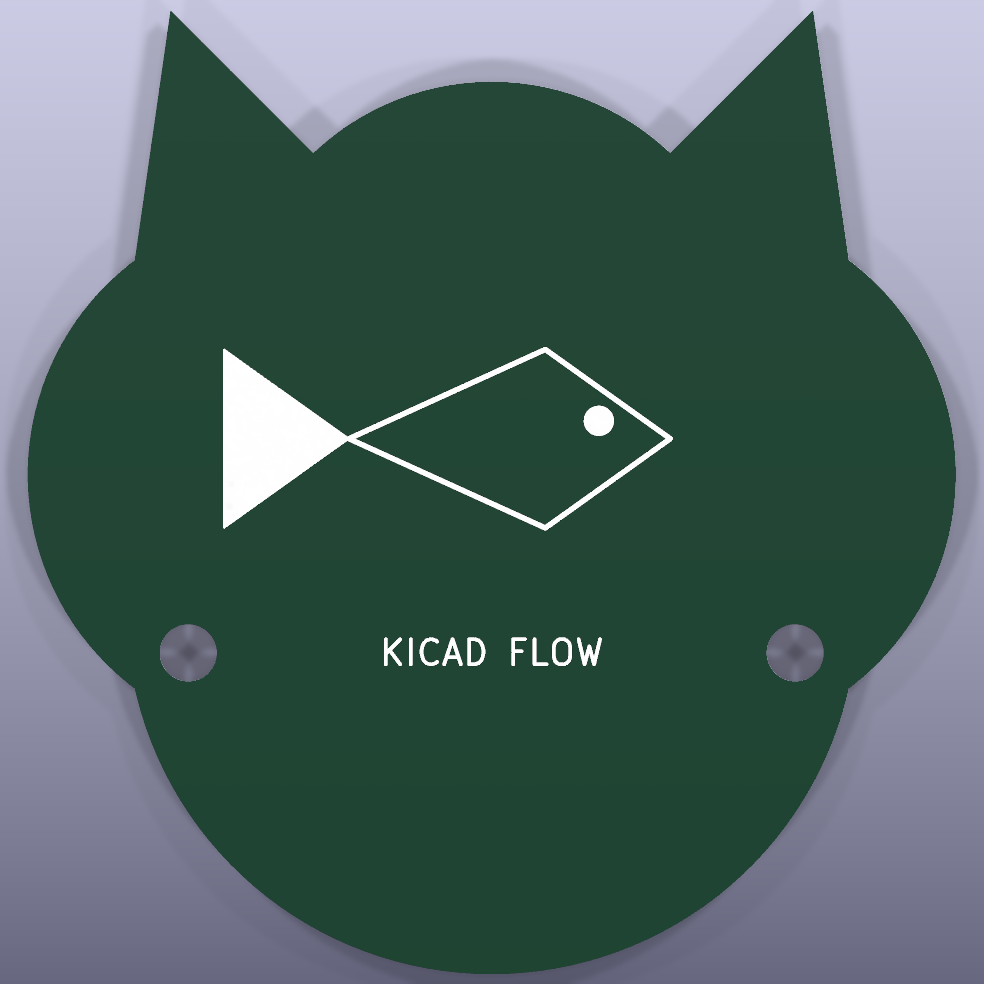
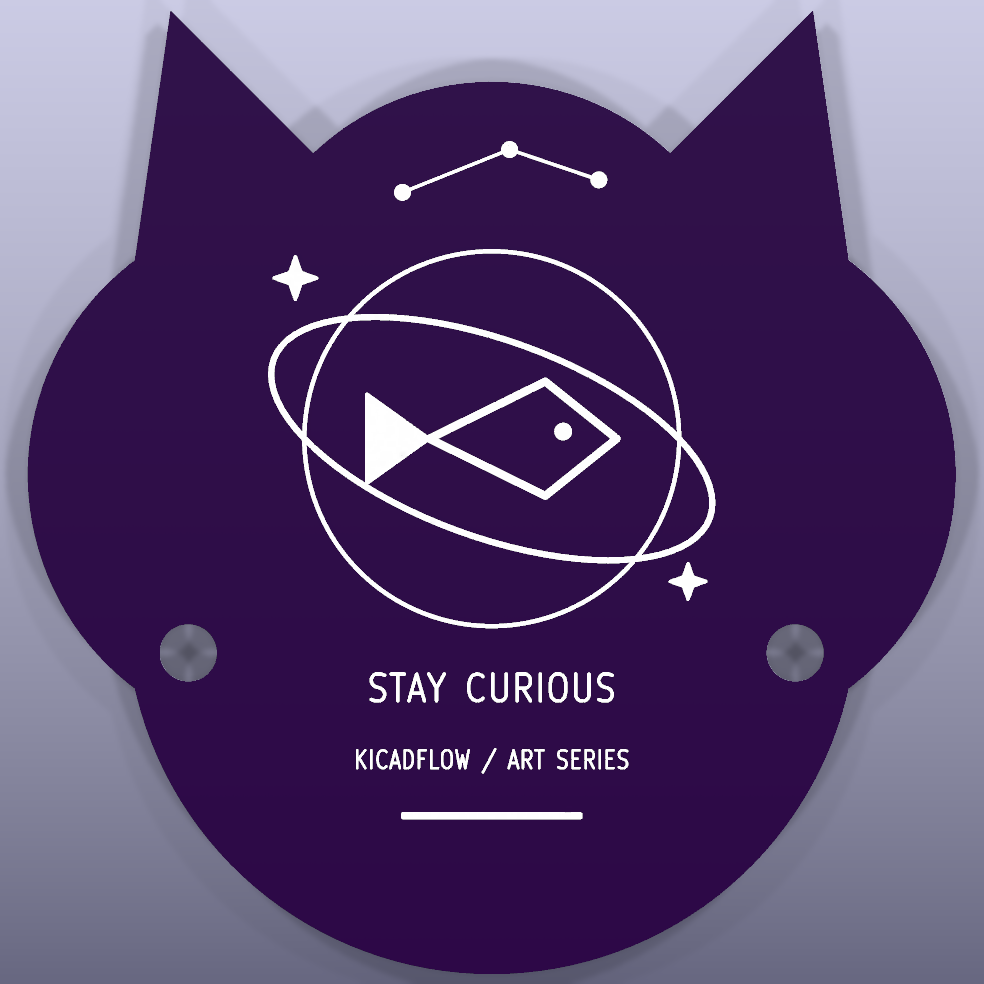
Redesign art board as two-sided Mooncat PCB charm

diff --git a/examples/scripts/art_board.py b/examples/scripts/art_board.py
@@ -1,4 +1,4 @@
-"""A cat-shaped board with silkscreen art, built through MCP calls alone.
+"""Mooncat: a two-sided celestial PCB charm, built through MCP calls alone.
 
 This is the geometry example: a closed outer contour composed from straight
 segments and three-point arcs, two circular internal cutouts, and front/back
@@ -10,7 +10,7 @@ Run it: ``python examples/scripts/art_board.py``
 from __future__ import annotations
 
 import asyncio
-import shutil
+import math
 import sys
 from pathlib import Path
 from typing import Any
@@ -24,9 +24,7 @@ OUT = Path("examples/art_board")
 
 async def build(client: Client) -> int:
     """Build, inspect, validate and render the art board."""
-    if OUT.exists():
-        shutil.rmtree(OUT)
-    OUT.mkdir(parents=True)
+    OUT.mkdir(parents=True, exist_ok=True)
     board = str(OUT / "art_board.kicad_pcb")
     failures = 0
 
@@ -71,54 +69,92 @@ async def build(client: Client) -> int:
          "x": 47, "y": 40, "radius": 1.6},
     ]
 
-    # Face, ears, whiskers and bow tie. This deliberately covers line, arc,
-    # circle, rectangle and polygon, including both stroked and filled forms.
-    front = [
-        {"kind": "polygon", "layer": "F.SilkS", "fill": True,
-         "points": [[18.5, 13], [13, 7], [12, 17]]},
-        {"kind": "polygon", "layer": "F.SilkS", "fill": True,
-         "points": [[41.5, 13], [47, 7], [48, 17]]},
-        {"kind": "circle", "layer": "F.SilkS", "width": 0.45,
-         "x": 21.5, "y": 27, "radius": 3},
-        {"kind": "circle", "layer": "F.SilkS", "width": 0.45,
-         "x": 38.5, "y": 27, "radius": 3},
-        {"kind": "circle", "layer": "F.SilkS", "fill": True,
-         "x": 21.5, "y": 27, "radius": 1.15},
-        {"kind": "circle", "layer": "F.SilkS", "fill": True,
-         "x": 38.5, "y": 27, "radius": 1.15},
-        {"kind": "polygon", "layer": "F.SilkS", "fill": True,
-         "points": [[27.5, 34], [32.5, 34], [30, 37]]},
-        {"kind": "arc", "layer": "F.SilkS", "width": 0.4,
-         "x1": 30, "y1": 37, "xm": 27, "ym": 40,
-         "x2": 23.5, "y2": 38.5},
-        {"kind": "arc", "layer": "F.SilkS", "width": 0.4,
-         "x1": 36.5, "y1": 38.5, "xm": 33, "ym": 40,
-         "x2": 30, "y2": 37},
-        {"kind": "line", "layer": "F.SilkS", "width": 0.35,
-         "x1": 24, "y1": 35, "x2": 12, "y2": 31},
-        {"kind": "line", "layer": "F.SilkS", "width": 0.35,
-         "x1": 24, "y1": 37, "x2": 11, "y2": 37},
-        {"kind": "line", "layer": "F.SilkS", "width": 0.35,
-         "x1": 36, "y1": 35, "x2": 48, "y2": 31},
-        {"kind": "line", "layer": "F.SilkS", "width": 0.35,
-         "x1": 36, "y1": 37, "x2": 49, "y2": 37},
-        {"kind": "polygon", "layer": "F.SilkS", "fill": True,
-         "points": [[23, 45], [29, 48], [23, 51]]},
-        {"kind": "polygon", "layer": "F.SilkS", "fill": True,
-         "points": [[37, 45], [31, 48], [37, 51]]},
-        {"kind": "rectangle", "layer": "F.SilkS", "fill": True,
-         "x1": 28.7, "y1": 46.5, "x2": 31.3, "y2": 49.5},
-    ]
+    # Deliberately authored art: two stroke weights, wide quiet margins and
+    # one crescent focal point. Coordinate generation belongs to the caller.
+    def polygon(points: list[list[float]], side: str = "F.SilkS",
+                fill: bool = True, width: float = 0.2) -> dict[str, Any]:
+        return {"kind": "polygon", "layer": side, "fill": fill,
+                "width": width, "points": points}
 
-    # A reverse-side fish mark makes the back silkscreen independently useful.
-    back = [
-        {"kind": "polygon", "layer": "B.SilkS", "width": 0.3,
-         "points": [[20, 28], [27, 23], [38, 28], [27, 33]]},
-        {"kind": "polygon", "layer": "B.SilkS", "fill": True,
-         "points": [[38, 28], [45, 23], [45, 33]]},
-        {"kind": "circle", "layer": "B.SilkS", "fill": True,
-         "x": 24, "y": 27, "radius": 0.8},
+    def line(x1: float, y1: float, x2: float, y2: float,
+             side: str = "F.SilkS", width: float = 0.3) -> dict[str, Any]:
+        return {"kind": "line", "layer": side, "width": width,
+                "x1": x1, "y1": y1, "x2": x2, "y2": y2}
+
+    def arc(x1: float, y1: float, xm: float, ym: float, x2: float,
+            y2: float, side: str = "F.SilkS", width: float = 0.4) -> dict[str, Any]:
+        return {"kind": "arc", "layer": side, "width": width,
+                "x1": x1, "y1": y1, "xm": xm, "ym": ym, "x2": x2, "y2": y2}
+
+    def star(x: float, y: float, size: float,
+             side: str = "F.SilkS") -> dict[str, Any]:
+        return polygon([[x, y-size], [x+size*0.26, y-size*0.26],
+                        [x+size, y], [x+size*0.26, y+size*0.26],
+                        [x, y+size], [x-size*0.26, y+size*0.26],
+                        [x-size, y], [x-size*0.26, y-size*0.26]], side)
+
+    # A crescent is a single closed polygon, so no white overprinting tricks.
+    moon = [[30 + 4 * math.cos(t), 19 + 4 * math.sin(t)]
+            for t in [math.radians(-90 - i * 180 / 40) for i in range(41)]]
+    moon += [[30 - 1.7 * math.cos(t), 19 + 4 * math.sin(t)]
+             for t in [math.radians(90 - i * 180 / 40) for i in range(41)]]
+    front = [
+        polygon([[13.8, 9.5], [18, 14], [13, 16]], fill=False, width=0.35),
+        polygon([[46.2, 9.5], [42, 14], [47, 16]], fill=False, width=0.35),
+        polygon(moon, width=0.15),
+        # Relaxed eyelids and three short lashes on each eye.
+        arc(16, 28, 21.5, 31, 26, 28, width=0.65),
+        arc(34, 28, 38.5, 31, 44, 28, width=0.65),
+        line(17.4, 29.4, 16.4, 30.8), line(20, 30.5, 19.6, 32),
+        line(42.6, 29.4, 43.6, 30.8), line(40, 30.5, 40.4, 32),
+        polygon([[28.8, 34.3], [31.2, 34.3], [30, 35.5]]),
+        line(30, 35.5, 30, 36.5),
+        arc(26.5, 37, 28.4, 38, 30, 36.5, width=0.35),
+        arc(30, 36.5, 31.6, 38, 33.5, 37, width=0.35),
+        line(11, 32, 22, 35, width=0.25),
+        line(10, 35, 21, 36.5, width=0.25),
+        line(49, 32, 38, 35, width=0.25),
+        line(50, 35, 39, 36.5, width=0.25),
+        star(35, 18, 1.4), star(21, 20, 0.85), star(41, 23, 0.65),
+        # Rings deliberately keep 0.75 mm of material around each cutout.
+        {"kind": "circle", "layer": "F.SilkS", "width": 0.2,
+         "x": 13, "y": 40, "radius": 2.45},
+        {"kind": "circle", "layer": "F.SilkS", "width": 0.2,
+         "x": 47, "y": 40, "radius": 2.45},
+        line(20, 44, 26.5, 44, width=0.2),
+        line(33.5, 44, 40, 44, width=0.2), star(30, 44, 0.9),
     ]
+    for x, y, radius in [(18, 24, 0.3), (38, 15, 0.25), (24, 15, 0.22),
+                          (35.5, 23, 0.22), (23.5, 40.5, 0.25), (36.5, 40.5, 0.25)]:
+        front.append({"kind": "circle", "layer": "F.SilkS", "fill": True,
+                      "x": x, "y": y, "radius": radius, "width": 0.15})
+
+    # The reverse is its own emblem: an orbit, a fish, a small constellation.
+    orbit = []
+    tilt = math.radians(-20)
+    for step in range(80):
+        angle = step * 2 * math.pi / 80
+        x, y = 13 * math.cos(angle), 5.5 * math.sin(angle)
+        orbit.append([30 + x * math.cos(tilt) - y * math.sin(tilt),
+                      28 + x * math.sin(tilt) + y * math.cos(tilt)])
+    back = [
+        {"kind": "circle", "layer": "B.SilkS", "x": 30, "y": 28,
+         "radius": 10.5, "width": 0.25},
+        polygon(orbit, "B.SilkS", fill=False, width=0.35),
+        polygon([[23, 28], [27, 24.8], [33.5, 28], [27, 31.2]],
+                "B.SilkS", fill=False, width=0.45),
+        polygon([[33.5, 28], [37, 25.5], [37, 30.5]], "B.SilkS"),
+        {"kind": "circle", "layer": "B.SilkS", "fill": True,
+         "x": 26, "y": 27.6, "radius": 0.45},
+        star(41, 19, 1.2, "B.SilkS"), star(19, 36, 1, "B.SilkS"),
+        line(24, 13.5, 29, 11.8, "B.SilkS", 0.2),
+        line(29, 11.8, 35, 14.2, "B.SilkS", 0.2),
+        {"kind": "rectangle", "layer": "B.SilkS", "fill": True,
+         "x1": 25, "y1": 49, "x2": 35, "y2": 49.25, "width": 0.15},
+    ]
+    for x, y in [(24, 13.5), (29, 11.8), (35, 14.2)]:
+        back.append({"kind": "circle", "layer": "B.SilkS", "fill": True,
+                     "x": x, "y": y, "radius": 0.4, "width": 0.15})
 
     made = await call("add_graphics", path=board,
                       graphics=edge + front + back)
@@ -127,32 +163,46 @@ async def build(client: Client) -> int:
         failures += 1
         print(f"WRONG graphic result: {made}")
 
-    # Exercise identity-based editing on a real visible mark: create a star,
-    # move it to its final position, and remove a temporary construction box.
+    # Stable-ID editing stays part of the example: reposition the accent star
+    # and delete the construction box without redrawing the design.
     edits = await call("add_graphics", path=board, graphics=[
-        {"kind": "polygon", "layer": "F.SilkS", "fill": True,
-         "points": [[28, 18], [29, 20], [31, 20], [29.5, 21.5],
-                    [30, 24], [28, 22.5], [26, 24], [26.5, 21.5],
-                    [25, 20], [27, 20]]},
+        star(36, 20, 0.6),
         {"kind": "rectangle", "layer": "F.SilkS",
          "x1": 18, "y1": 16, "x2": 42, "y2": 42},
     ])
     edit_shapes = edits.get("graphics", [])
     if len(edit_shapes) == 2:
         await call("move_graphics", path=board, moves=[{
-            "uuid": edit_shapes[0]["uuid"], "dx": 2, "dy": -2}])
+            "uuid": edit_shapes[0]["uuid"], "dx": 1, "dy": 0.5}])
         await call("remove_graphics", path=board,
                    uuids=[edit_shapes[1]["uuid"]])
     else:
         failures += 1
 
     await call("add_board_texts", path=board, texts=[
-        {"x": 30, "y": 54, "text": "SHAPES, NOT GUESSES",
-         "layer": "F.SilkS", "width": 1.1, "height": 1.1, "thickness": 0.165},
-        {"x": 30, "y": 40, "text": "KICAD FLOW",
-         "layer": "B.SilkS", "width": 1.4, "height": 1.4,
-         "thickness": 0.21, "mirror": True},
+        {"x": 30, "y": 48.5, "text": "M O O N C A T",
+         "layer": "F.SilkS", "width": 1.45, "height": 1.65, "thickness": 0.22},
+        {"x": 30, "y": 52, "text": "AFTER HOURS / 01",
+         "layer": "F.SilkS", "width": 0.85, "height": 1, "thickness": 0.15},
+        {"x": 30, "y": 42, "text": "STAY CURIOUS",
+         "layer": "B.SilkS", "width": 1.3, "height": 1.5,
+         "thickness": 0.2, "mirror": True},
+        {"x": 30, "y": 46, "text": "KICADFLOW / ART SERIES",
+         "layer": "B.SilkS", "width": 0.8, "height": 1,
+         "thickness": 0.15, "mirror": True},
     ])
+    await call("set_stackup", path=board, copper_finish="ENIG", layers=[
+        {"name": "F.SilkS", "kind": "Top Silk Screen", "color": "White"},
+        {"name": "F.Mask", "kind": "Top Solder Mask", "color": "Purple"},
+        {"name": "F.Cu", "kind": "copper", "thickness": 0.035},
+        {"name": "dielectric 1", "kind": "core", "thickness": 1.53,
+         "material": "FR4", "epsilon_r": 4.5},
+        {"name": "B.Cu", "kind": "copper", "thickness": 0.035},
+        {"name": "B.Mask", "kind": "Bottom Solder Mask", "color": "Purple"},
+        {"name": "B.SilkS", "kind": "Bottom Silk Screen", "color": "White"},
+    ])
+    await call("set_fabrication_profile", path=board,
+               soldermask_color="purple", finish="ENIG")
     listed = await call("list_graphics", path=board)
     final_expected = expected + 1
     if listed.get("count") != final_expected:

diff --git a/examples/art_board/README.md b/examples/art_board/README.md
@@ -1,0 +1,34 @@
+# Mooncat
+
+A two-sided celestial PCB charm: a sleepy cat and crescent on the front, an
+orbital fish emblem and constellation on the reverse. Purple solder mask and
+white silkscreen are recorded in the physical stackup.
+
+![Mooncat in perspective](art_board-3d.png)
+
+| Front | Reverse |
+| --- | --- |
+| ![Mooncat front](art_board-top.png) | ![Mooncat reverse](art_board-bottom.png) |
+
+The board is 52 x 54 mm, 1.6 mm thick, with two 3.2 mm circular cutouts.
+This is a decorative geometry example, with no electrical circuit, footprints
+or routed copper. The artwork is original and defined entirely by caller-chosen
+coordinates. Its 55 graphics exercise lines, three-point arcs, circles,
+rectangles, filled/stroked polygons and stable-ID move/delete operations.
+Reverse-side text is mirrored for reading from the back.
+
+Run from the repository root:
+
+```powershell
+python examples/scripts/art_board.py
+```
+
+The script uses only `Client(mcp)` for CAD operations. It recreates the board,
+applies the JLCPCB purple-mask profile, runs DRC, and renders front, back and
+perspective views. The final inspected build reports **0 DRC errors, 0 warnings,
+and 0 MCP failures**. Generated native design files remain local, as with the
+other example builds; the script and preview images are versioned.
+
+Artwork edits change this example's explicit input coordinates. No API placement,
+routing or artistic decisions are inferred. The two cutouts and outer contour
+remain the original example's mechanical geometry.

diff --git a/README.md b/README.md
@@ -125,9 +125,9 @@ tool schemas and contracts exposed to an MCP client.
   </tr>
   <tr>
     <td width="50%" align="center">
-      <a href="examples/art_board/"><img src="examples/art_board/art_board-3d.png" alt="Art board with rounded outline and cutouts" width="100%"></a><br>
-      <strong><a href="examples/art_board/">Art board</a></strong><br>
-      Line-and-arc outline, cutouts, and front/back silkscreen primitives.
+      <a href="examples/art_board/"><img src="examples/art_board/art_board-3d.png" alt="Mooncat purple PCB art with a crescent and stars" width="100%"></a><br>
+      <strong><a href="examples/art_board/">Mooncat art board</a></strong><br>
+      Celestial cat artwork, purple solder mask, and an orbital fish on the reverse.
     </td>
     <td width="50%" align="center">
       <a href="examples/esc4in1/"><img src="examples/esc4in1/esc4in1-3d.png" alt="Four-in-one ESC PCB" width="100%"></a><br>
